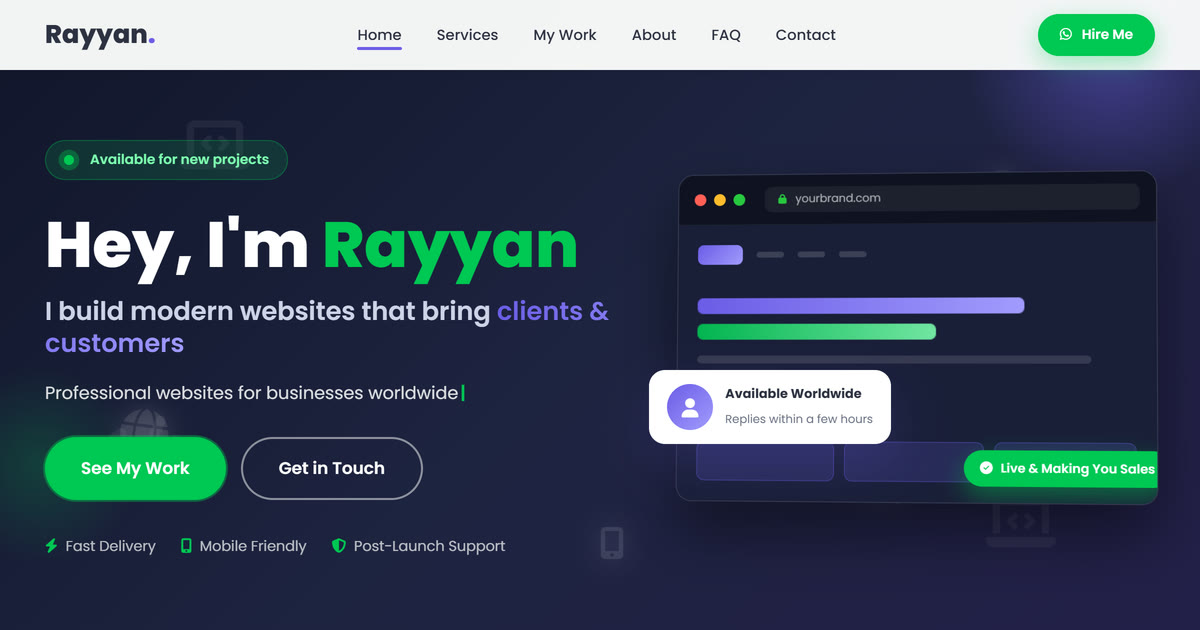
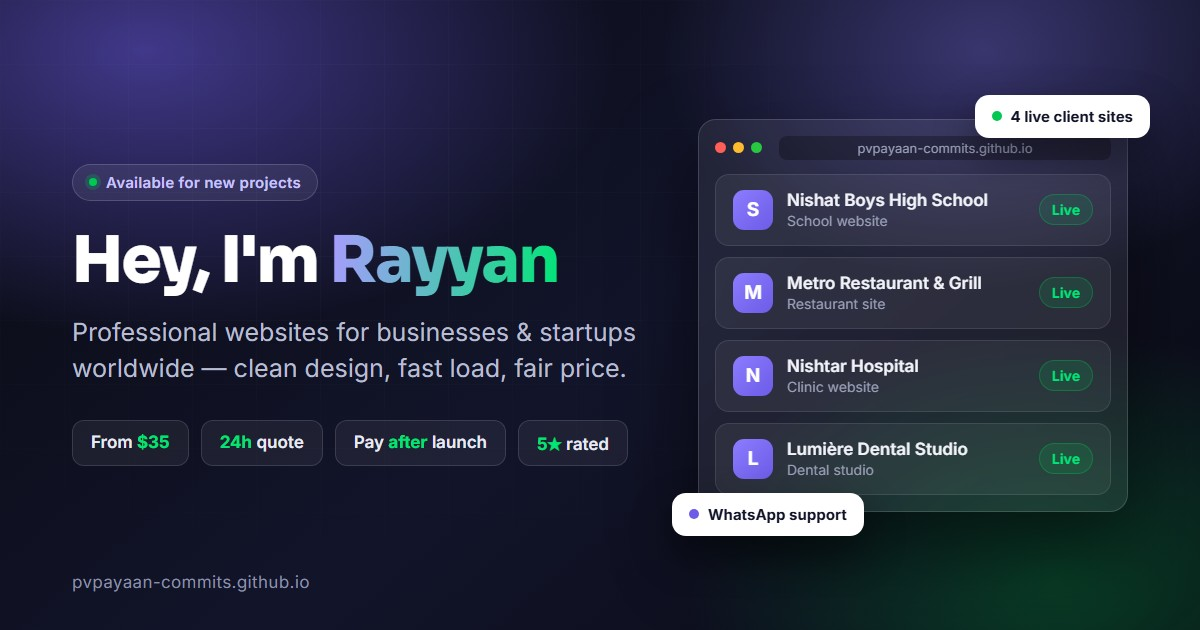
Point canonical/OG to root URL, regenerate OG image for new design

diff --git a/index.html b/index.html
@@ -8,21 +8,21 @@
 <meta name="keywords" content="website design, website development, web designer, web developer, professional website, affordable website design, business website, small business website, startup website, custom website, modern website design, responsive website, mobile friendly website, website redesign, landing page design, one page website, multi page website, website packages, website pricing, freelance web designer, freelance web developer, WhatsApp website, website with contact form, Google Maps website, online booking website, appointment website, photo gallery website, restaurant website, cafe website, school website, college website, clinic website, hospital website, dental website, salon website, boutique website, retail shop website, ecommerce website, online store, gym website, real estate website, portfolio website, personal website, website maintenance, SEO friendly website, website speed, fast website delivery, pay after delivery website, no advance website, website builder, website services, cheap website, web solutions, digital presence, website for doctors, website for dentists, website for schools, website for restaurants, website for shops, website support, website updates, website help, professional web pages, modern websites, websites worldwide, international client websites, web design pricing, custom coding website, hand coded website, HTML website, CSS website, JavaScript website">
 <meta name="author" content="Rayyan">
 <meta name="theme-color" content="#6c5ce7">
-<link rel="canonical" href="https://pvpayaan-commits.github.io/rayyan-v2/">
-<link rel="sitemap" type="application/xml" title="Sitemap" href="https://pvpayaan-commits.github.io/rayyan-v2/sitemap.xml">
+<link rel="canonical" href="https://pvpayaan-commits.github.io/">
+<link rel="sitemap" type="application/xml" title="Sitemap" href="https://pvpayaan-commits.github.io/sitemap.xml">
 
 <meta property="og:type" content="website">
 <meta property="og:title" content="Professional Website Design for Businesses &amp; Startups Worldwide | Rayyan">
 <meta property="og:description" content="Get a modern, professional website for your business, startup or school. Fast delivery, WhatsApp support, pay only after launch.">
-<meta property="og:image" content="https://pvpayaan-commits.github.io/rayyan-v2/assets/og-preview.jpg">
-<meta property="og:url" content="https://pvpayaan-commits.github.io/rayyan-v2/">
+<meta property="og:image" content="https://pvpayaan-commits.github.io/assets/og-preview.jpg">
+<meta property="og:url" content="https://pvpayaan-commits.github.io/">
 <meta property="og:site_name" content="Rayyan Portfolio">
 <meta property="og:locale" content="en_US">
 
 <meta name="twitter:card" content="summary_large_image">
 <meta name="twitter:title" content="Professional Website Design for Businesses &amp; Startups Worldwide | Rayyan">
 <meta name="twitter:description" content="Get a modern, professional website for your business, startup or school. Fast delivery, WhatsApp support, pay only after launch.">
-<meta name="twitter:image" content="https://pvpayaan-commits.github.io/rayyan-v2/assets/og-preview.jpg">
+<meta name="twitter:image" content="https://pvpayaan-commits.github.io/assets/og-preview.jpg">
 
 <link rel="icon" type="image/svg+xml" href="assets/favicon.svg">
 
@@ -40,8 +40,8 @@
   "@type": "ProfessionalService",
   "name": "Rayyan - Web Developer",
   "description": "Affordable, modern websites for businesses, startups and schools around the world. WhatsApp support, fast delivery, payment after delivery.",
-  "image": "https://pvpayaan-commits.github.io/rayyan-v2/assets/og-preview.jpg",
-  "url": "https://pvpayaan-commits.github.io/rayyan-v2/",
+  "image": "https://pvpayaan-commits.github.io/assets/og-preview.jpg",
+  "url": "https://pvpayaan-commits.github.io/",
   "telephone": "+92-320-8263108",
   "email": "rayyandev99@gmail.com",
   "priceRange": "$18 - $125",
@@ -390,7 +390,7 @@
         </div>
       </a>
 
-      <a href="https://pvpayaan-commits.github.io/rayyan-portfolio/metro-restaurant/" target="_blank" rel="noopener" class="work-card reveal">
+      <a href="https://pvpayaan-commits.github.io/metro-restaurant/" target="_blank" rel="noopener" class="work-card reveal">
         <div class="work-thumb">
           <img src="assets/restaurant.jpg" alt="Metro Restaurant &amp; Grill website - online menu, gallery and WhatsApp ordering" loading="lazy" width="640" height="400">
           <span class="work-type">Restaurant</span>
@@ -403,7 +403,7 @@
         </div>
       </a>
 
-      <a href="https://pvpayaan-commits.github.io/rayyan-portfolio/city-care-clinic/" target="_blank" rel="noopener" class="work-card reveal">
+      <a href="https://pvpayaan-commits.github.io/city-care-clinic/" target="_blank" rel="noopener" class="work-card reveal">
         <div class="work-thumb">
           <img src="assets/clinic.jpg" alt="Nishtar Hospital website - doctor profiles, timings and appointment booking" loading="lazy" width="640" height="400">
           <span class="work-type">Hospital</span>
@@ -416,7 +416,7 @@
         </div>
       </a>
 
-      <a href="https://pvpayaan-commits.github.io/rayyan-portfolio/lumiere-dental/" target="_blank" rel="noopener" class="work-card reveal">
+      <a href="https://pvpayaan-commits.github.io/lumiere-dental/" target="_blank" rel="noopener" class="work-card reveal">
         <div class="work-thumb">
           <img src="assets/dental.jpg" alt="Lumiere Dental Studio website - services, team bios and before/after gallery" loading="lazy" width="640" height="400">
           <span class="work-type">Dental Clinic</span>
